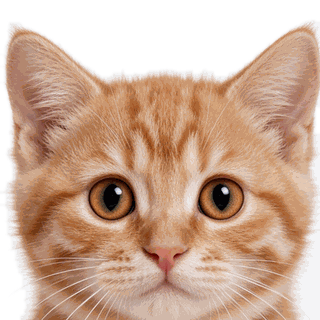
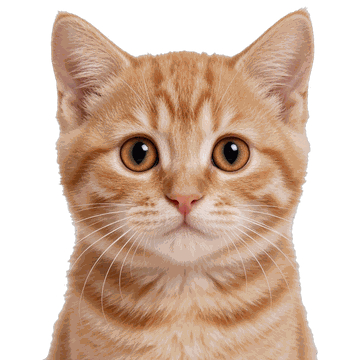
feat: lens glass tabs (bulge + iridescent rim + press scale, mouse drag) and re-matted cats

diff --git a/pages/index/index.vue b/pages/index/index.vue
@@ -21,6 +21,7 @@
 						@touchmove.stop.prevent="onDragMove($event, 'seg')"
 						@touchend="onDragEnd($event, 'seg')"
 						@touchcancel="onDragEnd($event, 'seg')"
+						@mousedown.prevent="onDragStart($event, 'seg')"
 						@click="onSegClick"
 						@longpress="resetThemeAuto">
 						<view class="liq-thumb seg-thumb" :style="segThumbStyle"></view>
@@ -62,7 +63,8 @@
 					@touchstart="onDragStart($event, 'day')"
 					@touchmove.stop.prevent="onDragMove($event, 'day')"
 					@touchend="onDragEnd($event, 'day')"
-					@touchcancel="onDragEnd($event, 'day')">
+					@touchcancel="onDragEnd($event, 'day')"
+					@mousedown.prevent="onDragStart($event, 'day')">
 					<view class="liq-thumb daytabs-thumb" :style="dayThumbStyle"></view>
 					<view class="daytab" @click="switchDay(-1)">
 						<text class="daytab-txt" :class="{ 'daytab-txt-on': dayOffset === -1 }" :style="dayTxtStyle(-1)">昨天</text>
@@ -428,6 +430,8 @@ export default {
 			segLead: '0%',
 			daySettle: false, // 吸附阶段：给 thumb 加 CSS transition 兜底（rAF 被暂停时也能到位）
 			segSettle: false,
+			dayPress: false, // 按住时玻璃鼓一圈（跟手按下反馈）
+			segPress: false,
 
 			reloading: false,
 
@@ -610,13 +614,13 @@ export default {
 		/* -------- 滑块位移：把弹簧状态翻译成 CSS 变量 -------- */
 		/* 拉伸时横向变长、纵向变薄，像被手指带着走的一小团液体 */
 		dayThumbStyle() {
-			const st = this.thumbStyle(this.dayTabIdx, this.dayTabStretch, this.dayTabLead);
+			const st = this.thumbStyle(this.dayTabIdx, this.dayTabStretch, this.dayTabLead, this.dayPress ? 1.07 : 1);
 			if (this.daySettle) st.transition = 'transform 0.42s cubic-bezier(0.22, 1.2, 0.36, 1)';
 			return st;
 		},
 
 		segThumbStyle() {
-			const st = this.thumbStyle(this.segIdx, this.segStretch, this.segLead);
+			const st = this.thumbStyle(this.segIdx, this.segStretch, this.segLead, this.segPress ? 1.08 : 1);
 			if (this.segSettle) st.transition = 'transform 0.42s cubic-bezier(0.22, 1.2, 0.36, 1)';
 			return st;
 		},
@@ -844,12 +848,14 @@ export default {
 
 		/* ---------------- 液态玻璃滑块（弹簧驱动） ---------------- */
 		/* 把「第几格 + 拉伸量 + 高光偏移」拼成 CSS 变量，模板里的滑块只认变量 */
-		thumbStyle(idx, stretch, lead) {
+		thumbStyle(idx, stretch, lead, press) {
 			return {
 				'--idx': String(idx),
 				'--sx': String(1 + stretch),
 				// 横向拉伸时纵向收一点，保持体积感
 				'--sy': String(1 - stretch * 0.42),
+				// 按下时整块玻璃鼓一圈
+				'--press': String(press || 1),
 				'--lead': lead
 			};
 		},
@@ -964,26 +970,69 @@ export default {
 		},
 
 		touchX(e) {
+			// 兼容触屏（touches/changedTouches）与鼠标（clientX）
 			const t = e.touches && e.touches[0];
-			return t ? t.clientX : 0;
+			if (t) return t.clientX;
+			const c = e.changedTouches && e.changedTouches[0];
+			if (c) return c.clientX;
+			return typeof e.clientX === 'number' ? e.clientX : 0;
+		},
+
+		// 鼠标拖拽时把 move/up 挂到 window，移出元素也能继续跟手
+		_bindMouse(kind) {
+			this._unbindMouse();
+			const move = (ev) => this.onDragMove(ev, kind);
+			const up = (ev) => this.onDragEnd(ev, kind);
+			this._mouseMove = move;
+			this._mouseUp = up;
+			if (typeof window !== 'undefined' && window.addEventListener) {
+				window.addEventListener('mousemove', move);
+				window.addEventListener('mouseup', up);
+			}
+		},
+
+		_unbindMouse() {
+			if (typeof window !== 'undefined' && window.removeEventListener) {
+				if (this._mouseMove) window.removeEventListener('mousemove', this._mouseMove);
+				if (this._mouseUp) window.removeEventListener('mouseup', this._mouseUp);
+			}
+			this._mouseMove = null;
+			this._mouseUp = null;
 		},
 
 		onDragStart(e, kind) {
 			const m = this.tabMeta(kind);
 			this.stopSpring(kind); // 抢过正在飞行的滑块
 			this.applySlide(kind, this[kind === 'day' ? 'dayTabIdx' : 'segIdx'], 0, '0%', false);
+			const x0 = this.touchX(e);
 			this._drag = {
 				kind,
-				x0: this.touchX(e),
+				x0,
 				i0: m.idx,
 				t0: Date.now(),
-				lastX: this.touchX(e),
+				lastX: x0,
 				lastT: Date.now(),
 				v: 0,
 				n: m.n,
 				moved: false,
 				targetEl: e.currentTarget
 			};
+			// 鼠标按下：拖出元素也要跟手
+			if (e && e.type === 'mousedown') this._bindMouse(kind);
+			// 按下反馈：玻璃鼓一点
+			this.setPress(kind, true);
+		},
+
+		// 按下一瞬间玻璃微放大，松手回到 1（配合 settle 的 CSS transition 会有回弹感）
+		setPress(kind, v) {
+			if (kind === 'day') this.dayPress = v;
+			else this.segPress = v;
+		},
+
+		// 点击切换时也弹一下，跟按下的手感统一
+		pulsePress(kind) {
+			this.setPress(kind, true);
+			setTimeout(() => this.setPress(kind, false), 130);
 		},
 
 		onDragMove(e, kind) {
@@ -1018,6 +1067,8 @@ export default {
 			const d = this._drag;
 			if (!d || d.kind !== kind) return;
 			this._drag = null;
+			this._unbindMouse(); // 鼠标拖拽结束后解除全局监听
+			this.setPress(kind, false);
 			if (!d.moved) return; // 纯点击，交给 click 处理
 
 			// 松手：速度投影 + 取整 → 吸附目标格
@@ -1094,7 +1145,10 @@ export default {
 
 		switchDay(offset, fromDrag) {
 			if (this.dayOffset === offset) return;
-			if (!fromDrag) this.slideTo('day', offset + 1); // 纯点击才走弹簧；拖拽时吸附弹簧已接管
+			if (!fromDrag) {
+				this.pulsePress('day'); // 点击时玻璃先鼓一下再飞过去
+				this.slideTo('day', offset + 1); // 纯点击才走弹簧；拖拽时吸附弹簧已接管
+			}
 			this.dayOffset = offset;
 			if (offset === -1) this.loadArchive();
 			if (offset === 1) {
@@ -1204,7 +1258,10 @@ export default {
 		/* ---------------- 主题切换 ---------------- */
 		toggleTheme(fromDrag) {
 			const next = this.theme === 'dark' ? 'light' : 'dark';
-			if (!fromDrag) this.slideTo('seg', next === 'dark' ? 1 : 0);
+			if (!fromDrag) {
+				this.pulsePress('seg');
+				this.slideTo('seg', next === 'dark' ? 1 : 0);
+			}
 			this.theme = next;
 			this.themeMode = 'manual'; // 用户手动选过，之后不再被时间覆盖
 			uni.setStorageSync(CACHE_KEY, this.theme);
@@ -2488,6 +2545,12 @@ export default {
 	--liq-hl-btm: rgba(255, 255, 255, 0.10);
 	--liq-sheen: rgba(255, 255, 255, 0.24);
 
+	/* 透镜玻璃：外溢高光 + 虹彩色散描边（暗色底收敛一点，避免糊） */
+	--lens-warm: rgba(150, 190, 255, 0.30);
+	--lens-shadow: rgba(0, 0, 0, 0.50);
+	--lens-glow: rgba(190, 220, 255, 0.16);
+	--iris-op: 0.40;
+
 	/* 摸小猫：粉色爱心 + 柔光，暗色底更显亮 */
 	--cat-ink: #FFB3D1;
 	--cat-glow: rgba(255, 130, 185, 0.85);
@@ -2540,6 +2603,12 @@ export default {
 	--liq-hl: rgba(255, 255, 255, 1);
 	--liq-hl-btm: rgba(255, 255, 255, 0.50);
 	--liq-sheen: rgba(198, 216, 255, 0.55);
+
+	/* 透镜玻璃：浅色底上更明显的奶白 + 虹彩棱边 */
+	--lens-warm: rgba(255, 214, 178, 0.70);
+	--lens-shadow: rgba(92, 118, 170, 0.34);
+	--lens-glow: rgba(255, 255, 255, 0.70);
+	--iris-op: 0.66;
 
 	/* 浅色下爱心改用深玫红，避免粉色在白底上看不清 */
 	--cat-ink: #E5487F;
@@ -2746,7 +2815,8 @@ export default {
 }
 
 /* ---------- 液态玻璃滑块（日期切换 / 日夜切换共用） ---------- */
-/* 位置用 --idx（可为小数，弹簧中间态），拉伸用 --sx/--sy，高光用 --lead */
+/* 位置用 --idx（可为小数，弹簧中间态），拉伸用 --sx/--sy，高光用 --lead
+   质感参考：iOS 透镜玻璃 —— 滑块比轨道外溢一圈、边缘虹彩色散、按下微放大 */
 .liq-thumb {
 	position: absolute;
 	z-index: 0;
@@ -2755,17 +2825,46 @@ export default {
 	box-sizing: border-box;
 	border-radius: 999rpx;
 	border: 1rpx solid var(--liq-bd);
-	background-image: linear-gradient(158deg, var(--liq-a) 0%, var(--liq-b) 100%);
+	background-image:
+		radial-gradient(115% 150% at 26% 2%, var(--liq-hl) 0%, rgba(255, 255, 255, 0) 60%),
+		radial-gradient(120% 160% at 84% 106%, var(--lens-warm) 0%, rgba(255, 255, 255, 0) 64%),
+		linear-gradient(158deg, var(--liq-a) 0%, var(--liq-b) 100%);
 	box-shadow:
-		0 4rpx 14rpx rgba(0, 0, 0, 0.16),
+		0 12rpx 26rpx -10rpx var(--lens-shadow),
+		0 2rpx 6rpx rgba(0, 0, 0, 0.08),
 		inset 0 1rpx 0 var(--liq-hl),
-		inset 0 -1rpx 0 var(--liq-hl-btm),
-		inset 0 8rpx 18rpx -10rpx var(--liq-hl);
-	-webkit-backdrop-filter: blur(16px) saturate(220%);
-	backdrop-filter: blur(16px) saturate(220%);
-	transform: translate3d(calc(var(--idx, 1) * 100%), 0, 0) scale(var(--sx, 1), var(--sy, 1));
+		inset 0 -3rpx 10rpx -4rpx var(--liq-hl-btm),
+		inset 0 0 14rpx 0 var(--lens-glow);
+	-webkit-backdrop-filter: blur(20rpx) saturate(210%) brightness(1.04);
+	backdrop-filter: blur(20rpx) saturate(210%) brightness(1.04);
+	transform: translate3d(calc(var(--idx, 1) * 100%), 0, 0)
+		scale(calc(var(--sx, 1) * var(--press, 1)), calc(var(--sy, 1) * var(--press, 1)));
 	transform-origin: 50% 50%;
 	will-change: transform;
+}
+
+/* 虹彩棱边：一圈低透明度的彩色色散，就是那种"彩透"的边缘 */
+.liq-thumb::before {
+	content: '';
+	position: absolute;
+	inset: 0;
+	z-index: 2;
+	border-radius: inherit;
+	padding: 2rpx;
+	background: conic-gradient(from 145deg,
+		rgba(255, 138, 196, 0.95) 0%,
+		rgba(255, 208, 140, 0.85) 18%,
+		rgba(150, 255, 205, 0.75) 36%,
+		rgba(130, 190, 255, 0.95) 54%,
+		rgba(190, 150, 255, 0.90) 72%,
+		rgba(255, 138, 196, 0.95) 100%);
+	-webkit-mask: linear-gradient(#000 0 0) content-box, linear-gradient(#000 0 0);
+	-webkit-mask-composite: xor;
+	mask: linear-gradient(#000 0 0) content-box, linear-gradient(#000 0 0);
+	mask-composite: exclude;
+	opacity: var(--iris-op, 0.5);
+	filter: blur(0.6rpx) saturate(150%);
+	pointer-events: none;
 }
 
 /* 滑块高光：跟着速度左右流动 */
@@ -2778,6 +2877,7 @@ export default {
 	height: 200%;
 	transform: translateX(calc(-50% + var(--lead, 0%)));
 	background-image: radial-gradient(closest-side, var(--liq-sheen) 0%, rgba(255, 255, 255, 0) 100%);
+	opacity: 0.75;
 	pointer-events: none;
 }
 
@@ -2830,7 +2930,6 @@ export default {
 	padding: 4rpx;
 	box-sizing: border-box;
 	border-radius: 999rpx;
-	overflow: hidden;
 	background-color: var(--seg-bg);
 	border: 1rpx solid var(--glass-bd);
 	-webkit-backdrop-filter: blur(20px) saturate(200%);
@@ -2838,10 +2937,11 @@ export default {
 	box-shadow: inset 0 1rpx 0 var(--glass-hl-btm), inset 0 0 0 1rpx var(--glass-rim), 0 2px 10px rgba(0, 0, 0, 0.10);
 }
 
+/* 滑块上下外溢，比轨道高一圈 —— 透镜鼓出来的感觉 */
 .seg-thumb {
 	left: 4rpx;
-	top: 4rpx;
-	bottom: 4rpx;
+	top: -7rpx;
+	bottom: -7rpx;
 	width: calc((100% - 8rpx) / 2);
 }
 
@@ -2881,7 +2981,6 @@ export default {
 	align-items: center;
 	padding: 5rpx;
 	border-radius: 999rpx;
-	overflow: hidden;
 	background-color: var(--seg-bg);
 	border: 1rpx solid var(--glass-bd);
 	-webkit-backdrop-filter: blur(20px) saturate(200%);
@@ -2902,8 +3001,8 @@ export default {
 
 .daytabs-thumb {
 	left: 5rpx;
-	top: 5rpx;
-	bottom: 5rpx;
+	top: -8rpx;
+	bottom: -8rpx;
 	width: calc((100% - 10rpx) / 3);
 }
 
